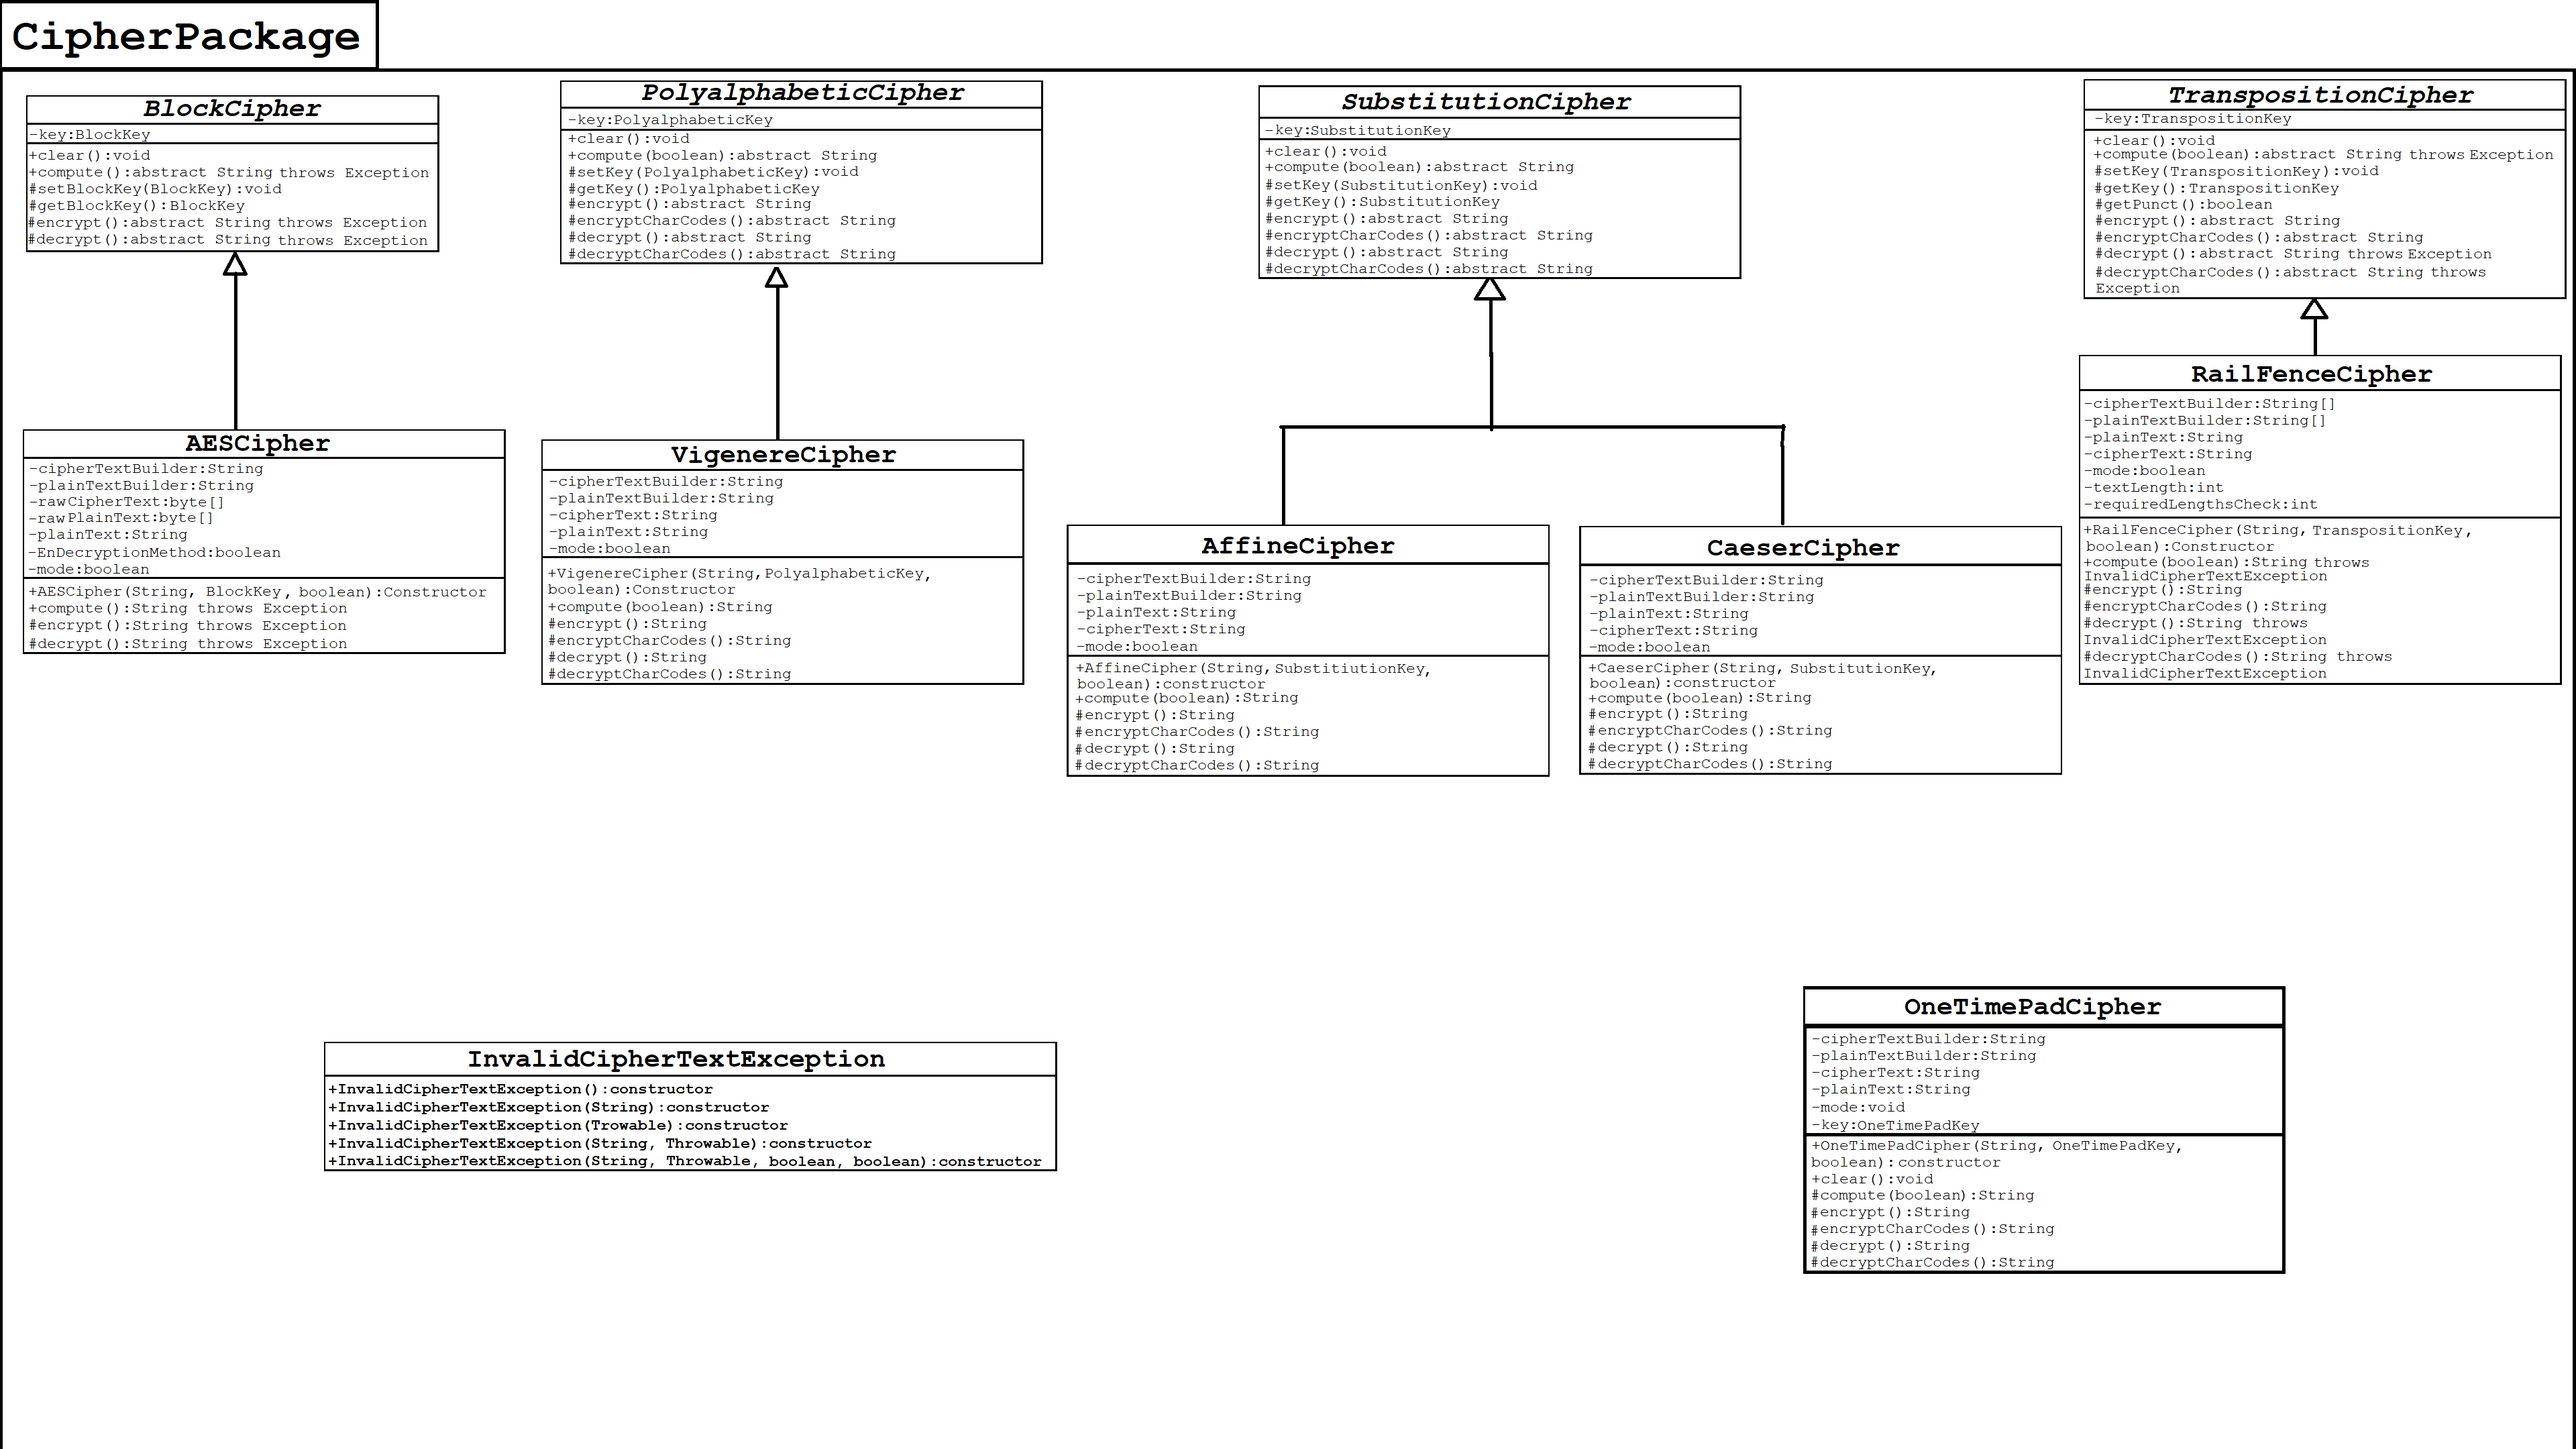
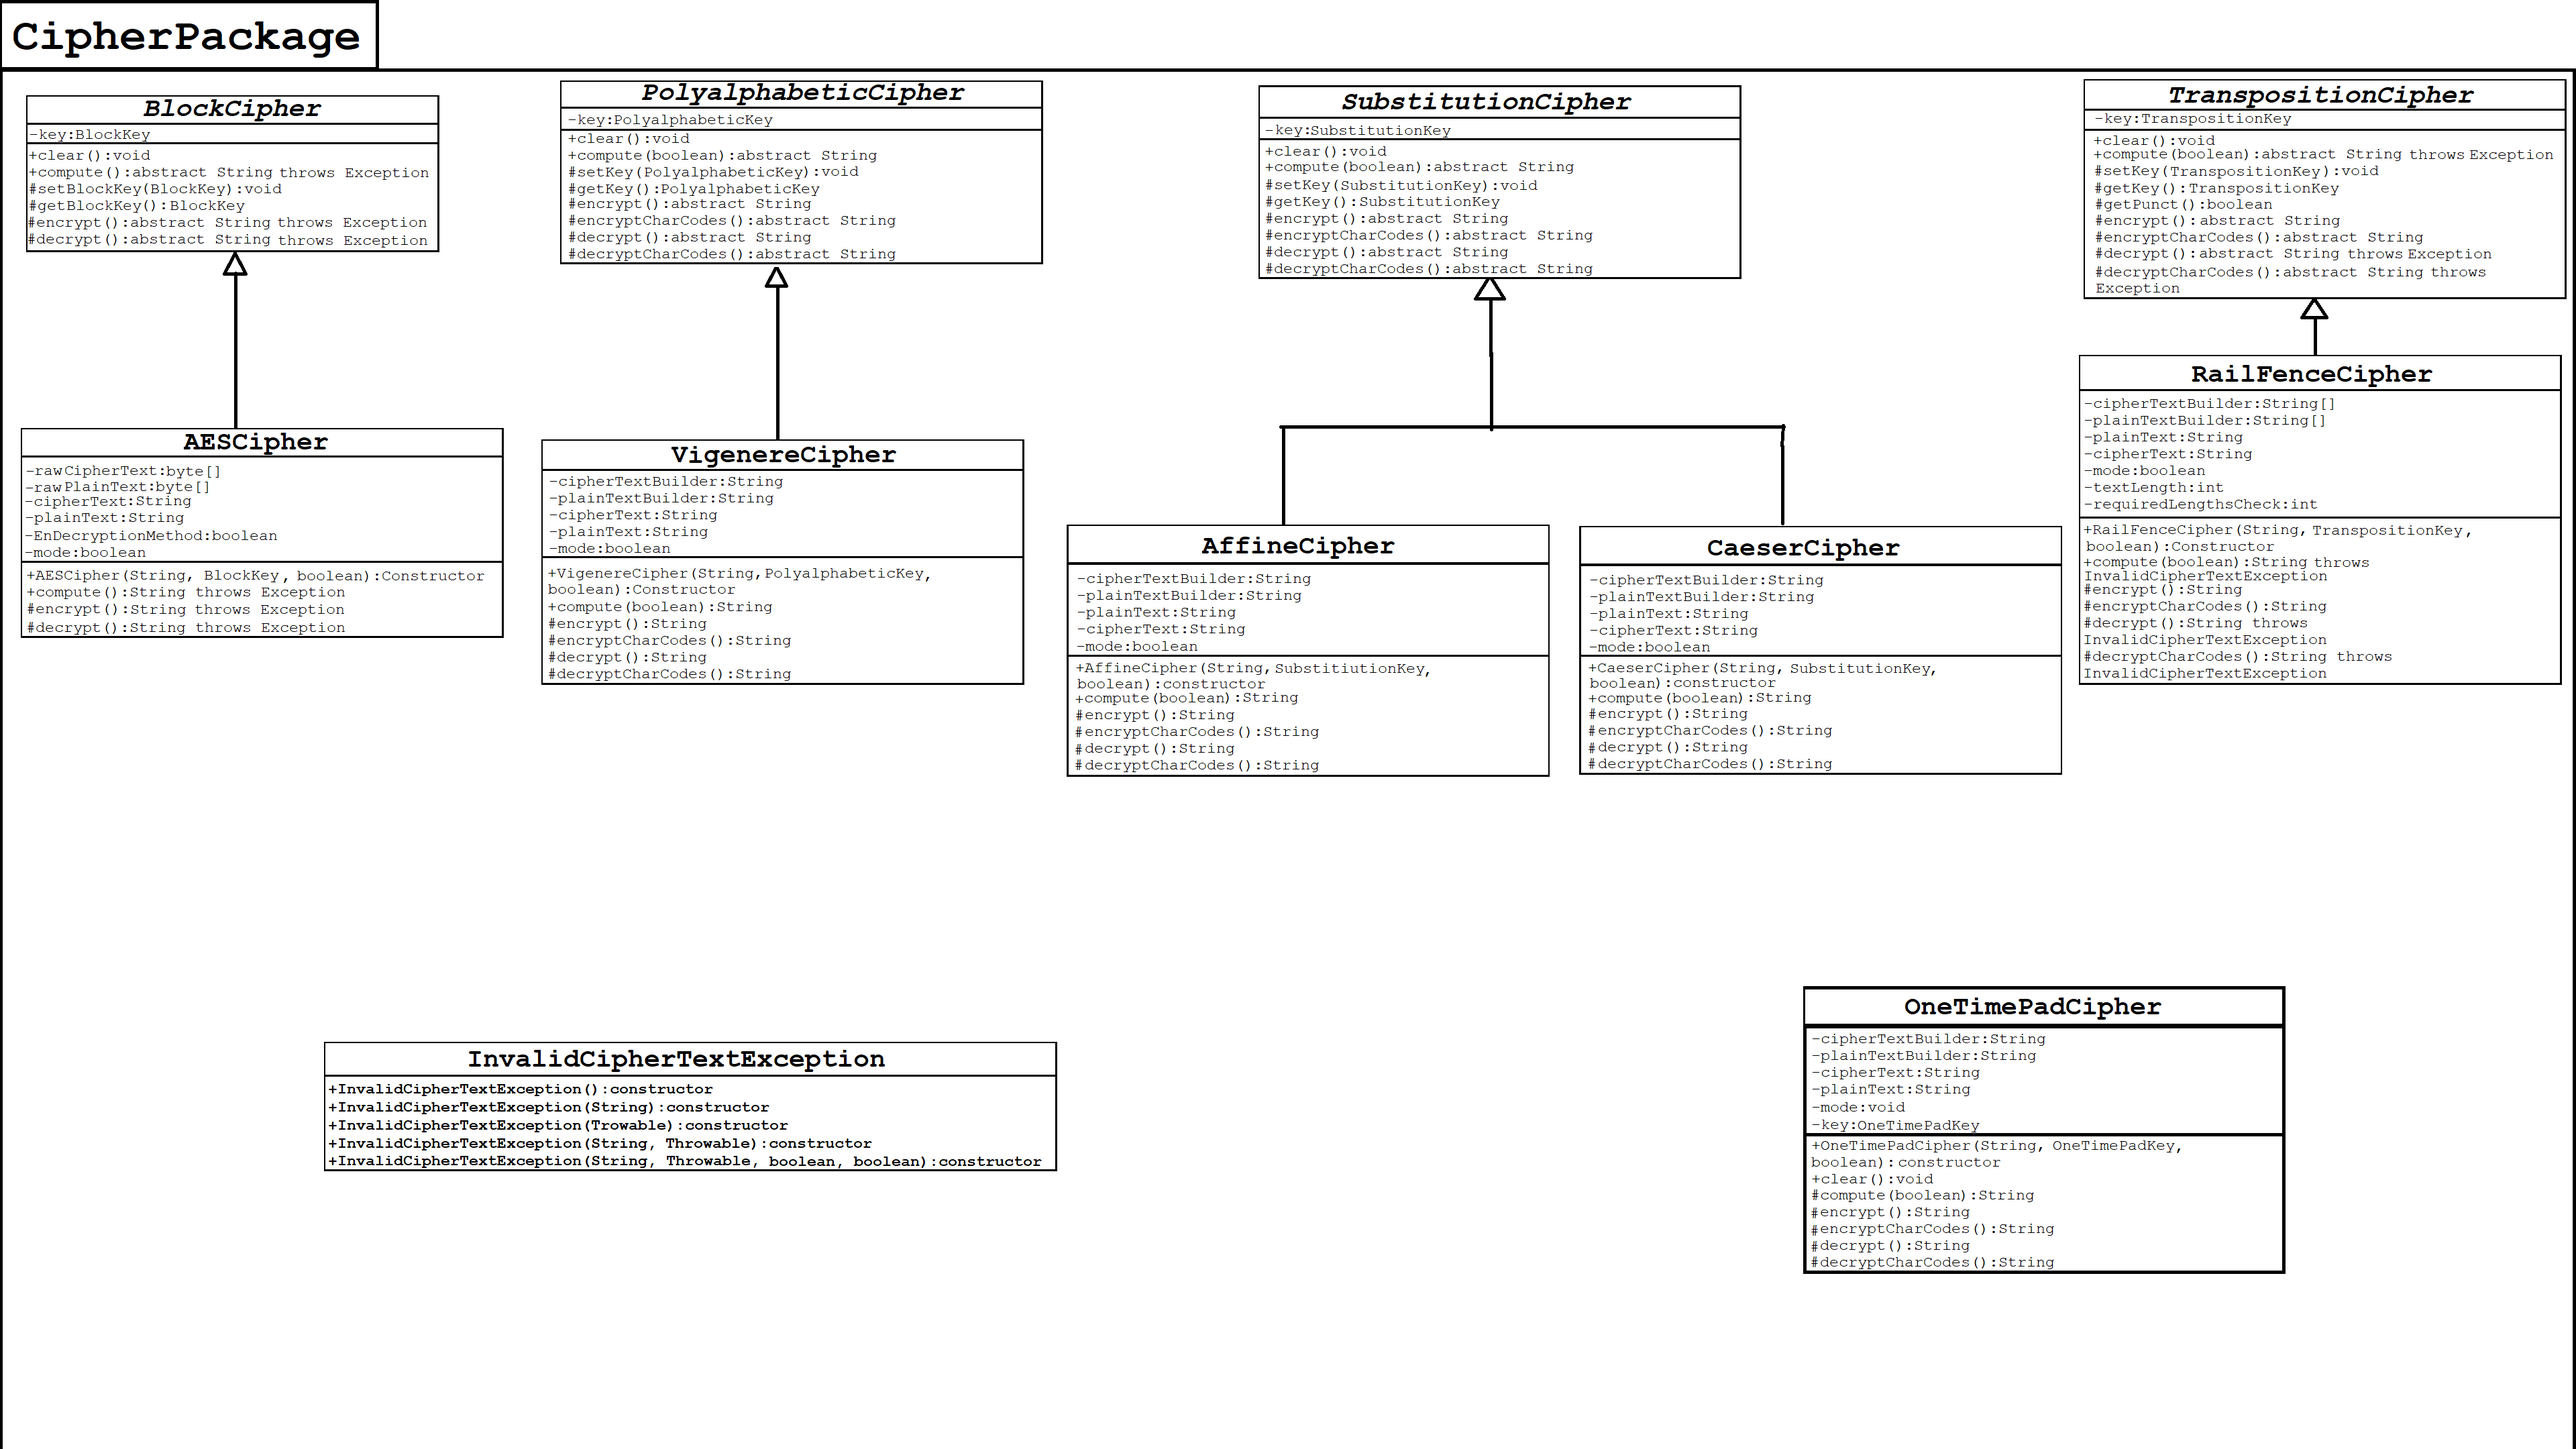
Added another field variable that was neccessary, removed unneccessary field variables.  Updated related diagrams.

Changed region(s): [[0.0, 0.2792, 0.1875, 0.4653]]

diff --git a/Encryptor Decryptor File Encryption/src/Encryptor Decryptor File Ecryption/CipherPackage/AESCipher.java b/Encryptor Decryptor File Encryption/src/Encryptor Decryptor File Ecryption/CipherPackage/AESCipher.java
@@ -19,11 +19,10 @@ import javax.crypto.spec.IvParameterSpec;
 public class AESCipher extends BlockCipher 
 {
 	
-	private String cipherTextBuilder;
-	private String plainTextBuilder;
 	private byte[] rawCipherText;
 	private byte[] rawPlainText;
 	private String plainText;
+	private String cipherText;
 	private boolean EnDecryptionMethod;
 	private boolean mode;
 
@@ -94,7 +93,7 @@ public class AESCipher extends BlockCipher
 				SecretKeySpec keySpec = new SecretKeySpec(super.getBlockKey().getKey().getEncoded(), "AES");
 				GCMParameterSpec parameterSpec = new GCMParameterSpec(super.getBlockKey().getAuthenticationTagLength(), super.getBlockKey().getIV());
 				cipher.init(Cipher.ENCRYPT_MODE, keySpec, parameterSpec);
-				
+				rawCipherText = cipher.doFinal(rawPlainText);
 			}
 			catch(InvalidKeyException e)
 			{
@@ -134,6 +133,8 @@ public class AESCipher extends BlockCipher
 				throw new Exception();
 			}
 		}
+		cipherText = new String(rawCipherText, "UTF-16");
+		return cipherText;
 	}
 
 	@Override
